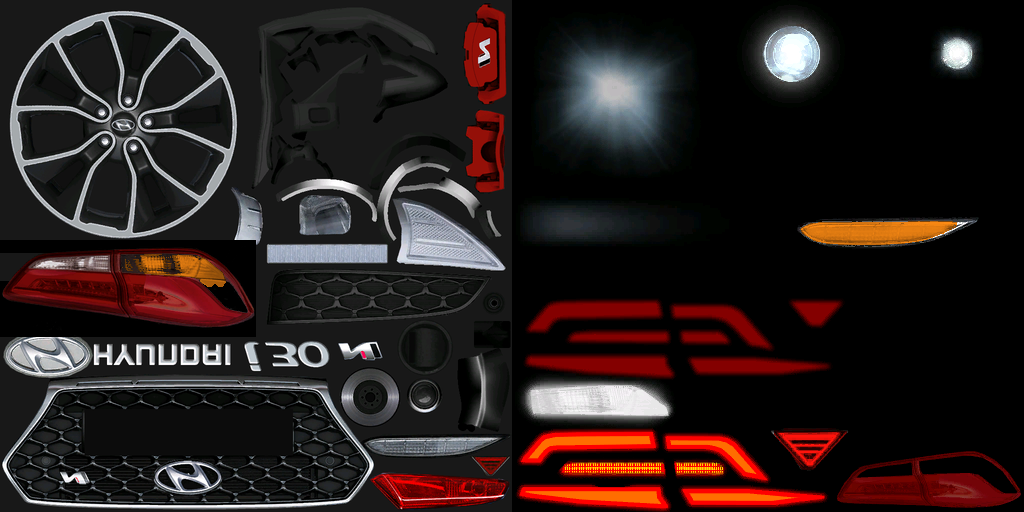
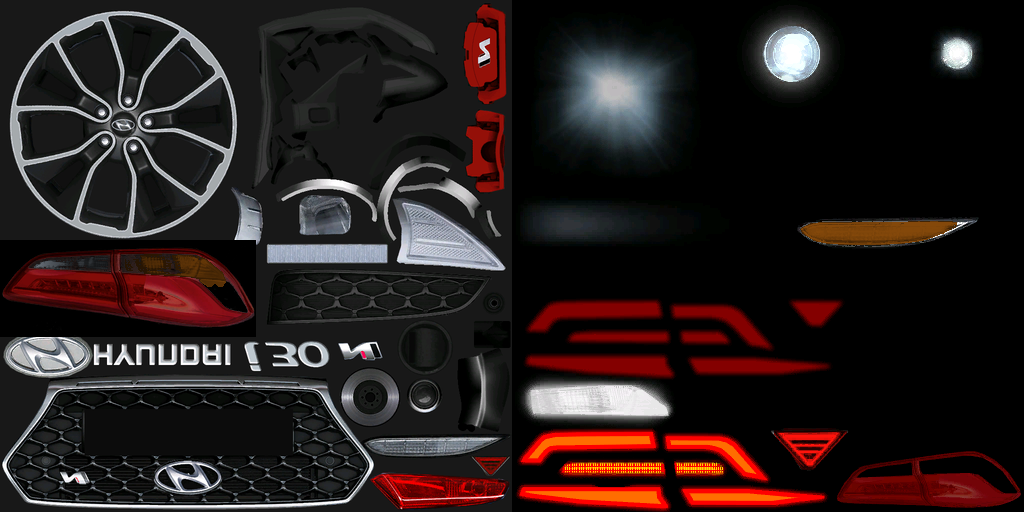
내 차 (3D car): the reversing lamp and the rear turn signal light like lamps, not a white / amber fill
The owner: the reversing lamp read as a flat pure-white block. Two causes: a flat white decal strip lay over the
lens's reversing bar, and the bar's glow was its near-white picture, which the lamp shader (glow x 1.9) saturates to
a uniform block. Same for the amber turn bar.

- the reversing decal is dropped: the lens's own ribbed bar is the lamp
- glow map, both rear clear bars: the lens's own pattern (its whiteness spread 0.5..1), brightest at the bulb and
  falling off along the bar (reversing: from the inner end, as in the owner's photo; turn: from the outer end), kept
  under saturation except at the core; the reversing lamp is a cool white (0.86, 0.93, 1.0), not pure white
- halos (the existing camera-facing additive sprites, no new pass): the rear bars' halo sits at the bulb (spot centre
  weighted by the falloff), the reversing halo is cool white and a little stronger (gain 0.35 -> 0.5); the red lens
  around the bar keeps its own red under the reversing lamp

Changed region(s): [[0.7812, 0.4062, 0.9375, 0.5], [0.0312, 0.5, 0.2188, 0.5625]]

diff --git a/scripts/car3d_model.py b/scripts/car3d_model.py
@@ -166,10 +166,12 @@ def corner_of(c):
 
 def dropped(p):
     """Triangles to leave out: the light-beam cones and the lens-flare sprites in front of the headlamps, and the decal
-    with the whole tail lamp's picture (in the game it is added on as light; drawn solid it hides the lens behind it,
-    which has the lamp's own picture with its clear parts)."""
+    with the whole tail lamp's picture and the reversing strip (in the game they are added on as light; drawn solid they
+    hide the lens behind them, which has the lamp's own picture with its clear parts)."""
     if p['mat'] == 'Material.006' and 'position_back' in p['node']:
         return lamp_picture(p)
+    if p['mat'] == 'Material.006' and 'reverse' in p['node']:   # a flat white strip over the lens's reversing bar
+        return np.ones(len(p['I']), bool)
     if p['mat'] != 'Material.006' or 'front_and_back' not in p['node']:
         return np.zeros(len(p['I']), bool)
     c = part_centres(p)
@@ -208,6 +210,27 @@ def side_turn(c):
 LENS_SEAM_U = 0.225
 CLEAR_BAND = (0.495, 0.548)
 BRAKE_ROW = (0.02, 0.553, 0.225, 0.59)
+# A lit clear bar reads as a lamp, not a paint fill: its glow keeps the lens's own ribbed pattern, is brightest at the
+# bulb and falls off along the bar, and stays below the shader's saturation (glow x 1.9 at full) except at the core.
+# The reversing bulb sits at the bar's inner end (the owner's photo), the turn signal's at the outer end.
+COOL = (0.86, 0.93, 1.0)        # the reversing lamp's white
+REVERSE_HOT_U, REVERSE_FALL = 0.065, 0.06
+TURN_HOT_U, TURN_FALL = 0.44, 0.12
+LIT_GAIN = 0.52
+
+
+def bar_falloff(u, group):
+    """Brightness along a rear clear bar (u: Material.002 UV) for the reversing lamp or the turn signal, 0..1."""
+    if group == REVERSE:
+        return 0.3 + 0.7 * np.exp(-np.maximum(u - REVERSE_HOT_U, 0) / REVERSE_FALL)
+    return 0.45 + 0.55 * np.exp(-np.maximum(TURN_HOT_U - u, 0) / TURN_FALL)
+
+
+def lens_pattern(img, m):
+    """The lens's own ribs / grid under mask m, 0.5..1 (its whiteness, spread between the 10th and 90th percentile)."""
+    v = img[m].min(1)
+    lo, hi = np.percentile(v, 10), np.percentile(v, 90)
+    return 0.5 + 0.5 * np.clip((v - lo) / max(hi - lo, 1e-3), 0, 1)
 
 
 def white_px(img):
@@ -379,7 +402,13 @@ def build(prims):
             high = (groups == STOP) & (np.abs(tri.mean(1)[:, 0]) < 0.2) & (mat == 'Material.006')
             tints += [(uv[turn], AMBER), (uv[high], RED)]
             tints.append((uv[(groups != NONE) & ~turn & ~high], None))   # lamps that keep their colour (overlap check)
-            collect_spots(q, groups, spots)
+            weight = np.ones(n)
+            if mat == 'Material.002':   # the rear bars' halos sit at their bulbs
+                ub = q['UV'][I].mean(1)[:, 0]
+                for grp in (REVERSE, TURN_L, TURN_R):
+                    sel = (groups == grp) & (tri.mean(1)[:, 2] < 0)
+                    weight[sel] = bar_falloff(ub[sel], REVERSE if grp == REVERSE else TURN_L) ** 6
+            collect_spots(q, groups, spots, weight)
             key = 'lamp ' + mat
         else:
             q = dict(p, I=I); uv = corner_uv(q)
@@ -403,10 +432,12 @@ def build(prims):
     return parts, centres, radius, offset, stats, finish_spots(spots), tints
 
 
-def collect_spots(p, groups, spots):
-    """Accumulate the glowing area of each lamp group per side (area-weighted)."""
+def collect_spots(p, groups, spots, weight=None):
+    """Accumulate the glowing area of each lamp group per side (area-weighted, times weight)."""
     I = p['I']; tri = p['P'][I]
     area = np.linalg.norm(np.cross(tri[:, 1] - tri[:, 0], tri[:, 2] - tri[:, 0]), axis=1) / 2
+    if weight is not None:
+        area = area * weight
     c = tri.mean(1); n = p['N'][I].mean(1)
     zone = np.where(c[:, 2] > 1.0, 1, np.where(c[:, 2] < -1.0, -1, 0))   # front lamp, mirror, rear lamp
     side = np.where(np.abs(c[:, 0]) < 0.2, 0, np.sign(c[:, 0]))          # 0: the high-mount stop lamp in the middle
@@ -506,15 +537,20 @@ def write_lamp_textures(prims, tints, out):
         hit = exact[ky, kx]
         if hit.any():
             raise SystemExit(f'{hit.sum()} other lamp triangles sit in a recoloured area {colour} of the glow map')
-        if colour == AMBER:
-            g[m] = g[m].min(1, keepdims=True) * AMBER; amber = m
+        if colour == AMBER:   # the lens's pattern, falling off from the bulb (rear lens: Material.002 half)
+            u = np.broadcast_to(np.arange(g.shape[1])[None, :] / ATLAS, g.shape[:2])[m]
+            fall = np.where(u < 1, bar_falloff(u, TURN_L), 1.0)
+            g[m] = (lens_pattern(g, m) * fall * LIT_GAIN)[:, None] * AMBER; amber = m
         else:   # the high-mount stop lamp: red from its brightest channel, dark red when off (not the picture's orange)
             g[m] = g[m].max(1, keepdims=True) * RED
             b[m] = b[m].max(1, keepdims=True) * RED
     # the tail lamp picture's other clear parts do not glow with the tail / stop lamp: only its red does
     lens = np.zeros(g.shape[:2], bool); lens[int(0.47 * ATLAS):int(0.66 * ATLAS), :int(0.5 * ATLAS)] = True
-    lens[int(CLEAR_BAND[0] * ATLAS):int(CLEAR_BAND[1] * ATLAS) + 1, :int(LENS_SEAM_U * ATLAS)] = False   # the reversing bar keeps its white
-    sel = lens & ~amber; r = g[sel]
+    rev = np.zeros_like(lens); rev[int(CLEAR_BAND[0] * ATLAS):int(CLEAR_BAND[1] * ATLAS) + 1, :int(LENS_SEAM_U * ATLAS)] = True
+    rev &= white_px(g)   # the reversing bar's clear texels: cool white, patterned, brightest at the inner end
+    u = np.broadcast_to(np.arange(g.shape[1])[None, :] / ATLAS, g.shape[:2])[rev]
+    g[rev] = (lens_pattern(g, rev) * bar_falloff(u, REVERSE) * LIT_GAIN)[:, None] * COOL
+    sel = lens & ~amber & ~rev; r = g[sel]
     g[sel] = r * np.clip((r[:, :1] - r[:, 1:].max(1, keepdims=True)) / (r[:, :1] + 1e-6) * 1.5, 0, 1)   # by its redness
     glow = Image.fromarray((g * 255).astype(np.uint8)); base = Image.fromarray((b * 255).astype(np.uint8))
     base.save(out / 'lamp_base.png', optimize=True)

diff --git a/apps/dashboard/src/com/veloster/car3d/CarRenderer.java b/apps/dashboard/src/com/veloster/car3d/CarRenderer.java
@@ -53,8 +53,8 @@ final class CarRenderer implements GLSurfaceView.Renderer {
     private static final float CLEAR_R = 0.035f, CLEAR_G = 0.04f, CLEAR_B = 0.055f;
     /** Halo colour per lamp group. */
     private static final float[][] HALO = {{0, 0, 0}, {1f, 0.97f, 0.9f}, {1f, 0.9f, 0.75f}, {1f, 0.08f, 0.05f}, {1f, 0.05f, 0.04f},
-        {1f, 0.55f, 0.05f}, {1f, 0.55f, 0.05f}, {1f, 1f, 1f}, {0, 0, 0}};
-    private static final float[] HALO_GAIN = {0, 0.75f, 0.25f, 0.45f, 0.8f, 0.9f, 0.9f, 0.35f, 0};
+        {1f, 0.55f, 0.05f}, {1f, 0.55f, 0.05f}, {0.86f, 0.93f, 1f}, {0, 0, 0}};   // reversing: a cool white
+    private static final float[] HALO_GAIN = {0, 0.75f, 0.25f, 0.45f, 0.8f, 0.9f, 0.9f, 0.5f, 0};
 
     // ---- state from the UI thread -----------------------------------------------------------------------------
     void setModel(CarModel m, Bitmap base, Bitmap glowMap) { synchronized (lock) { model = m; lampBase = base; lampGlow = glowMap; uploaded = false; } }
